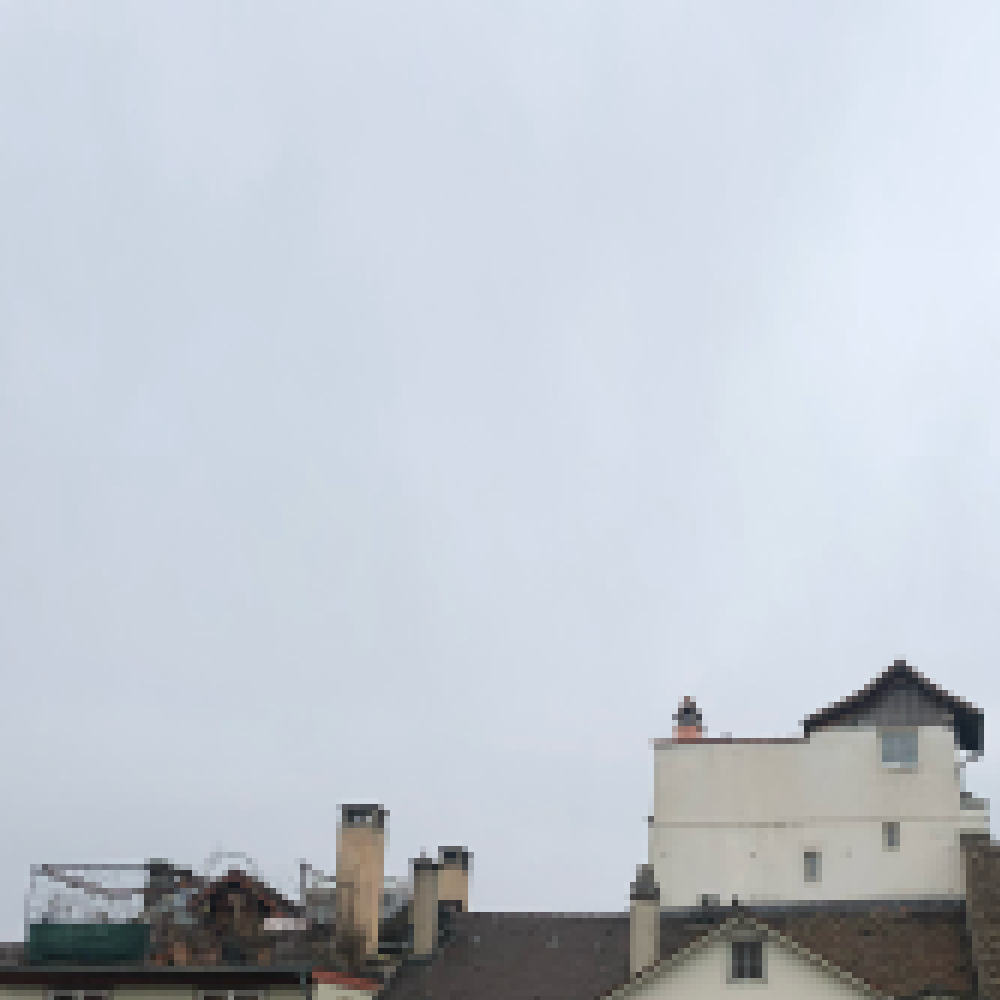
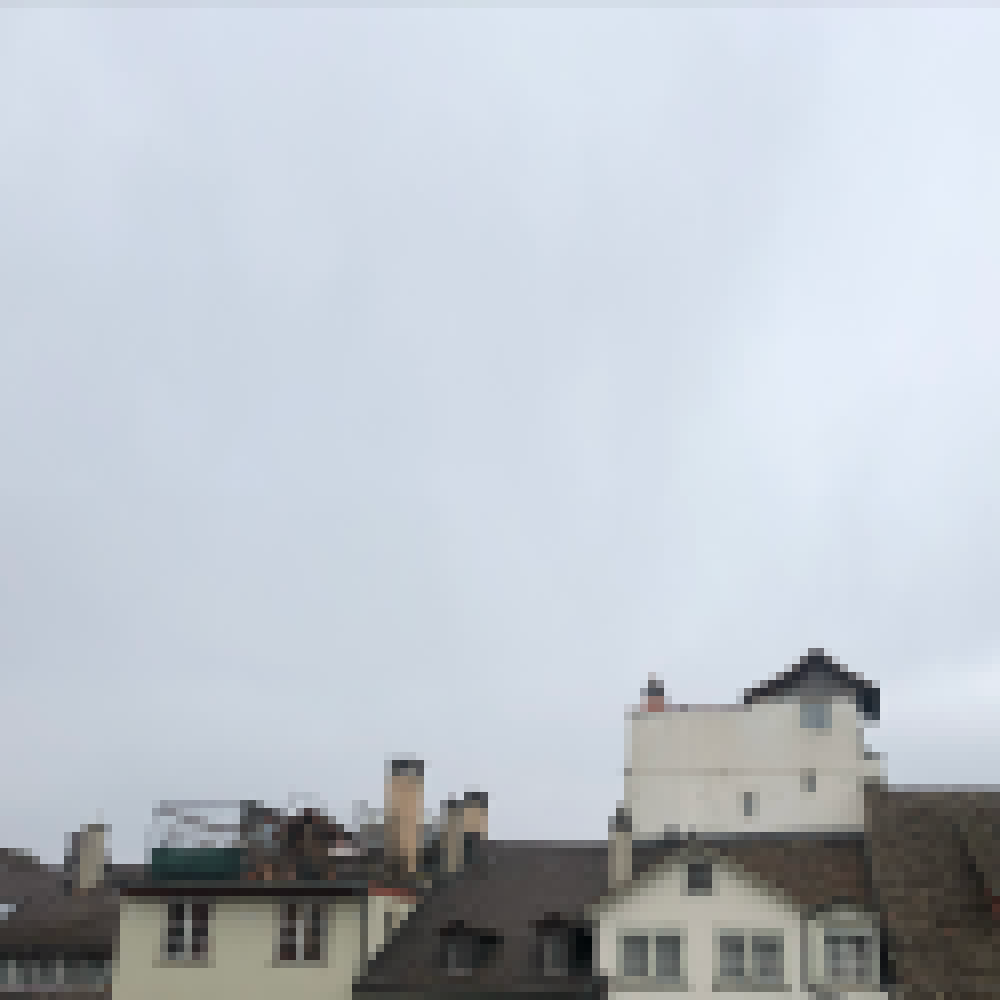
source before changes

Changed region(s): [[0.0, 0.651, 1.0, 1.0]]

diff --git a/canvas.js b/canvas.js
@@ -1,5 +1,15 @@
 var canvas = document.querySelector('canvas');
 var ctx = canvas.getContext('2d');
+var currentOpacity = 0;
+var increment = 0.02;
+var start = null;
+
+document.getElementById('canvas').onwheel = function(event){
+  event.preventDefault();
+}
+document.getElementById('canvas').onmouswheel = function(event){
+  event.preventDefault();
+}
 
 var imageDay= new Image();
 imageDay.src = "images/test_day.png"
@@ -7,28 +17,40 @@ imageDay.src = "images/test_day.png"
 var imageClouds= new Image();
 imageClouds.src = "images/test_clouds.png"
 
-// var currentOpacity = 1.0;
-// var currentOpacity = 0.5;
-var currentOpacity = 0;
-var increment = 0.1;
+var imageHalfNight= new Image();
+imageHalfNight.src = "images/test_night1.png"
 
-imageDay.onload = 
-  drawImages;
+var imageNight= new Image();
+imageNight.src = "images/test_night2.png"
 
-imageClouds.onload = 
-  drawImages;
+var imageFullNight= new Image();
+imageFullNight.src = "images/test_night3.png"
+
+imageDay.onload = drawImages;
+imageClouds.onload = drawImages;
+imageHalfNight.onload = drawImages;
+imageNight.onload = drawImages;
+imageFullNight.onload = drawImages;
+
 
 function drawImages() {
   canvas.width = this.naturalWidth;
   canvas.height = this.naturalHeight; 
 
-  ctx.drawImage(imageDay,0,0,imageDay.width,imageDay.height);
-  // changing opacity after imageday
-  ctx.globalAlpha = currentOpacity;
   ctx.drawImage(imageClouds,0,0,imageClouds.width,imageClouds.height);
+  // ctx.drawImage(imageDay,0,0,imageDay.width,imageDay.height);
+  // ctx.drawImage(imageHalfNight,0,0,imageHalfNight.width, imageHalfNight.height);
+  // ctx.drawImage(imageNight,0,0,imageNight.width, imageNight.height);
+  ctx.globalAlpha = currentOpacity;
+  ctx.drawImage(imageFullNight,0,0,imageFullNight.width, imageFullNight.height);
+
+  // changing opacity after image
+  // if (currentOpacity < 0) {
   currentOpacity += increment;
-  ctx.globalAlpha = currentOpacity
+  // }
+  console.log(currentOpacity)
+  // ctx.globalAlpha = currentOpacity
 
 
-window.requestAnimationFrame(drawImages);
+// window.requestAnimationFrame(drawImages);
 }

diff --git a/index.html b/index.html
@@ -6,6 +6,17 @@
     <title>im Moment</title>
     <link 
     rel="stylesheet" href="style.css">
+    <style>
+        html, 
+        body {
+            height: 100%;
+            margin: 10;
+        }
+  
+        body {
+          min-height: 100%;
+        }
+      </style>
 </head>
 <body>
     

diff --git a/style.css b/style.css
@@ -15,6 +15,8 @@
 }
 
 body {
+    min-height: 100%;
+    height:100%;
     margin:0;
     display:flex;
 }

diff --git a/README.md b/README.md
@@ -12,6 +12,8 @@ peaceful atmospheric images/environment to get a break from a busy day, to relax
 - [ ] Figure out how to make it centered on screen
 - [ ] Figure out how to make a more calm background (not white)
 
+- [ ] Fade between images -> maybe make two canvases?
+
 - [ ] Take image --> pixelate --> add elements
 
 - [ ] figure out how to render on my nextjs page?
